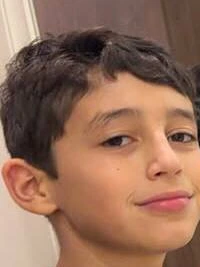
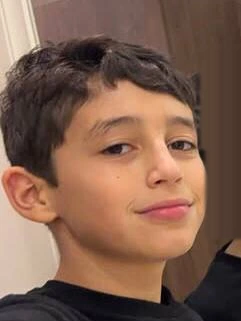
Фото Алекса: отражение в зеркале закрашено цветом двери, лицо целиком в кадре

diff --git a/examples.html b/examples.html
@@ -594,7 +594,7 @@ section.tight{ padding:56px 0; }
       </div>
       <div class="before-after">
         <!-- Пара «фото → иллюстрация»: Алекс, 13 лет (фото и книга публикуются с согласия родителей, 26.09) -->
-        <figure><img src="assets/examples/alex-3d/photo.webp" width="200" height="267" loading="lazy" alt="Фото Алекса из анкеты: мальчик 13 лет, селфи"><figcaption>Фото из анкеты — Алекс, 13 лет</figcaption></figure>
+        <figure><img src="assets/examples/alex-3d/photo.webp" width="241" height="321" loading="lazy" alt="Фото Алекса из анкеты: мальчик 13 лет, селфи"><figcaption>Фото из анкеты — Алекс, 13 лет</figcaption></figure>
         <span class="arrow" aria-hidden="true">→</span>
         <figure><img src="assets/examples/alex-3d/cover-480.webp" width="480" height="720" loading="lazy" style="object-position:center 30%;" alt="Обложка книги «Алекс и тайна Ани»: Алекс, нарисованный в стиле 3D-мультфильм"><figcaption>Обложка его книги, стиль «3D-мультфильм»</figcaption></figure>
       </div>
